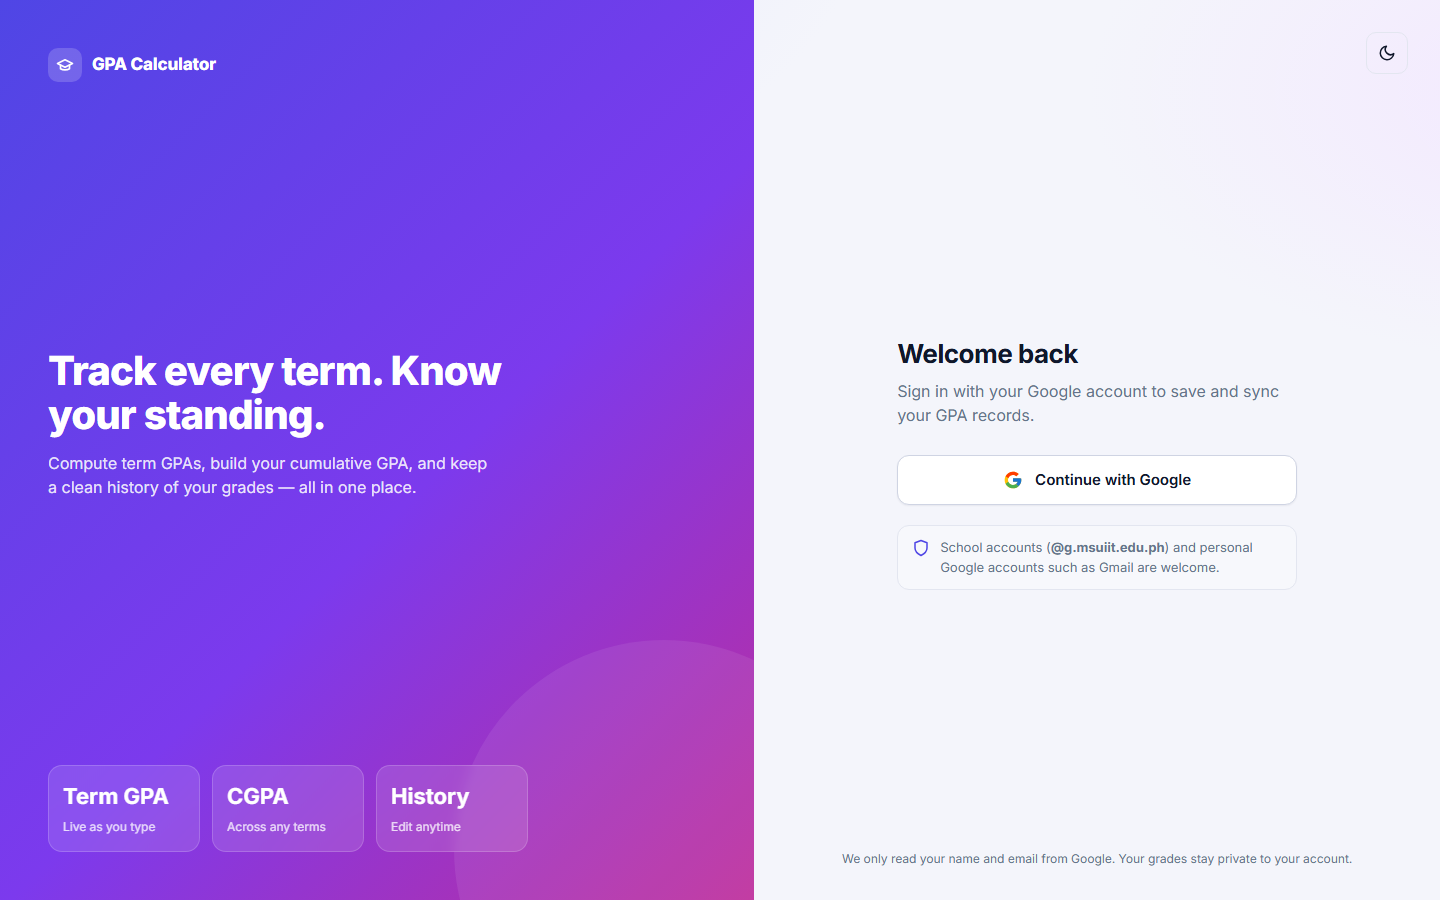
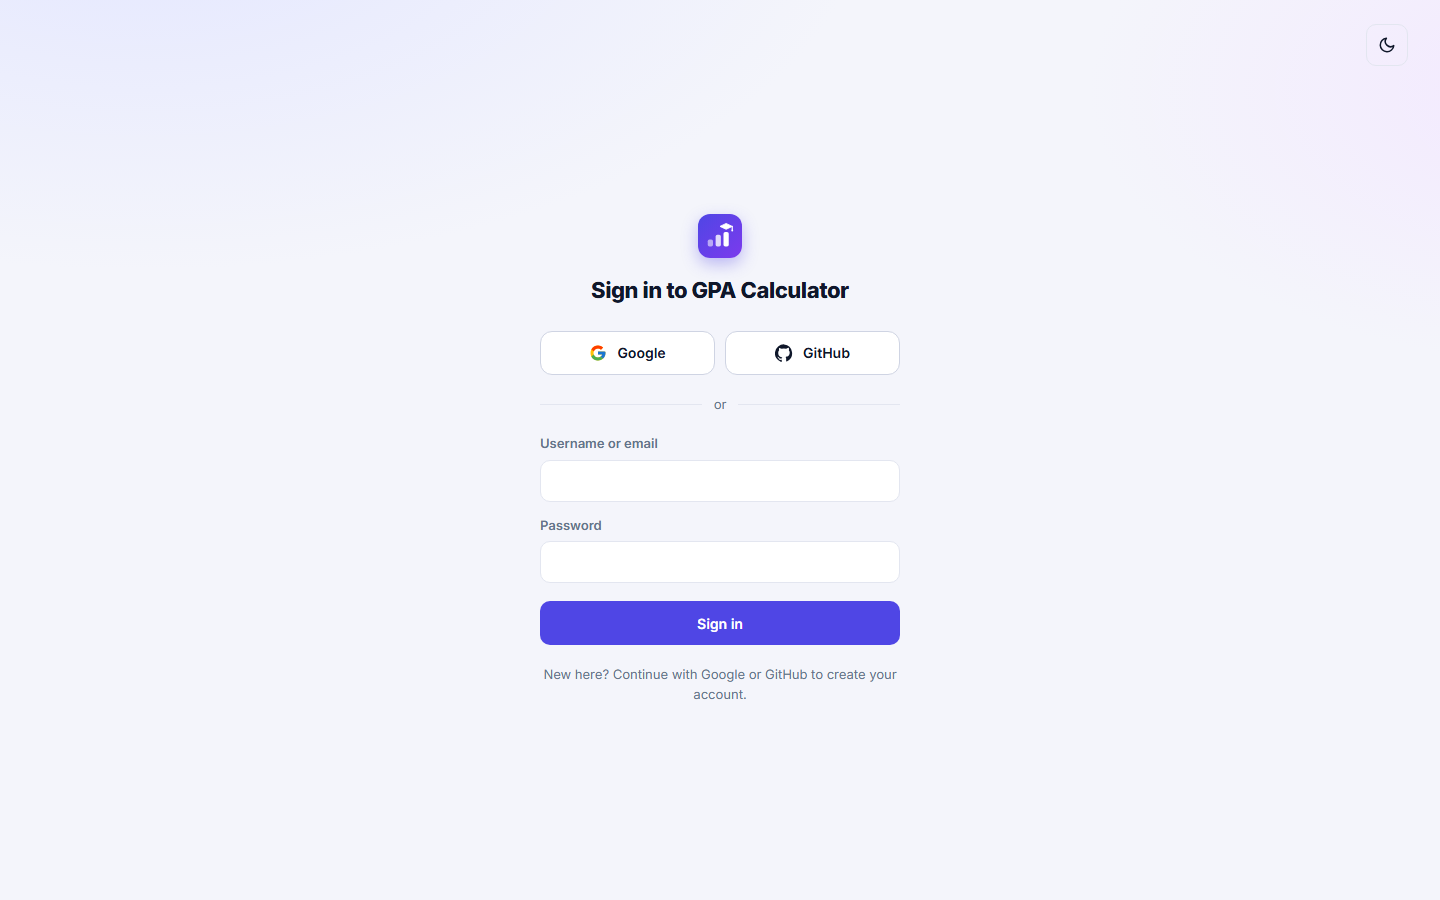
feat: simplify login and setup pages to a single centered card
- Replace "Welcome back" with "Sign in to GPA Calculator" so the page fits new users too
- Remove the gradient hero, stat tiles, policy box and long footer from /login and /setup
- Put the Google and GitHub buttons side by side above the password form
- Add a one-line hint telling new users to start with Google or GitHub
- Show the sign-in policy line only when sign-in is limited to school domains
- Update the README login screenshot to the new design

diff --git a/public/style.css b/public/style.css
@@ -116,60 +116,39 @@ input:focus, select:focus { outline: none; border-color: var(--primary); box-sha
 .btn-block { width: 100%; }
 
 /* ---------- Login ---------- */
-.auth-page { display: grid; grid-template-columns: 1.1fr 1fr; min-height: 100vh; }
-.auth-hero {
-  position: relative; overflow: hidden;
-  display: flex; flex-direction: column; justify-content: space-between;
-  padding: 48px;
-  color: #fff;
-  background: linear-gradient(135deg, #4f46e5 0%, #7c3aed 55%, #db2777 120%);
-}
-.auth-hero::after {
-  content: ''; position: absolute; inset: auto -120px -160px auto;
-  width: 420px; height: 420px; border-radius: 50%;
-  background: rgba(255, 255, 255, .08);
-}
-.auth-hero h1 { font-size: 40px; line-height: 1.1; max-width: 460px; }
-.auth-hero p { font-size: 16px; opacity: .85; max-width: 440px; margin-top: 14px; }
-.hero-stats { display: grid; grid-template-columns: repeat(3, 1fr); gap: 12px; max-width: 480px; position: relative; z-index: 1; }
-.hero-stat { background: rgba(255, 255, 255, .12); border: 1px solid rgba(255, 255, 255, .18); border-radius: var(--radius); padding: 14px; backdrop-filter: blur(6px); }
-.hero-stat strong { display: block; font-size: 22px; }
-.hero-stat span { font-size: 12px; opacity: .8; }
-.auth-panel { display: flex; flex-direction: column; padding: 32px; }
+.auth-page { min-height: 100vh; }
+.auth-panel { display: flex; flex-direction: column; min-height: 100vh; padding: 24px 32px; }
 .auth-panel .topbar { display: flex; justify-content: flex-end; }
-.auth-card { margin: auto; width: 100%; max-width: 400px; }
-.auth-card h2 { font-size: 26px; margin-bottom: 6px; }
-.auth-card .lead { color: var(--text-muted); margin-bottom: 28px; }
+.auth-card { margin: auto; width: 100%; max-width: 360px; padding: 24px 0 48px; }
+.auth-card > .brand-mark { width: 44px; height: 44px; border-radius: 12px; margin: 0 auto 16px; }
+.auth-card > .brand-mark svg { width: 28px; height: 28px; }
+.auth-card h1 { font-size: 22px; text-align: center; margin-bottom: 24px; }
+.auth-card .lead { color: var(--text-muted); font-size: 14px; text-align: center; margin: -16px 0 24px; }
+.oauth-row { display: grid; grid-template-columns: 1fr 1fr; gap: 10px; }
 .google-btn {
-  display: flex; align-items: center; justify-content: center; gap: 12px;
-  width: 100%; height: 50px; border-radius: 12px;
+  display: flex; align-items: center; justify-content: center; gap: 10px;
+  height: 44px; border-radius: 12px;
   border: 1px solid var(--border-strong); background: var(--surface);
-  color: var(--text); font-weight: 600; font-size: 15px; text-decoration: none;
-  box-shadow: var(--shadow-sm); transition: box-shadow .15s, border-color .15s, transform .05s;
+  color: var(--text); font-weight: 600; font-size: 14px; text-decoration: none;
+  transition: border-color .15s, transform .05s;
 }
-.google-btn:hover { box-shadow: var(--shadow); border-color: var(--primary); }
+.google-btn:hover { border-color: var(--primary); }
 .google-btn:active { transform: translateY(1px); }
-.google-btn svg { width: 20px; height: 20px; }
-.github-btn { margin-top: 12px; }
-.auth-note {
-  display: flex; gap: 10px; align-items: flex-start;
-  margin-top: 20px; padding: 12px 14px;
-  background: var(--surface-2); border: 1px solid var(--border); border-radius: 12px;
-  font-size: 13px; color: var(--text-muted);
-}
-.auth-note svg { width: 18px; height: 18px; flex: none; color: var(--primary); margin-top: 1px; }
+.google-btn svg { width: 18px; height: 18px; }
 .alert { margin-top: 16px; padding: 12px 14px; border-radius: 12px; font-size: 14px; background: var(--danger-soft); color: var(--danger); }
 .alert:empty { display: none; }
-.auth-footer { text-align: center; font-size: 12px; color: var(--text-muted); }
+.auth-hint { margin-top: 20px; text-align: center; font-size: 13px; color: var(--text-muted); }
+.auth-hint + .auth-hint { margin-top: 6px; }
+.auth-hint:empty { display: none; }
 .auth-form .field { margin-bottom: 14px; }
-.auth-form .btn { height: 46px; margin-top: 4px; }
+.auth-form .btn { height: 44px; margin-top: 4px; }
 .field-hint { margin-top: 6px; font-size: 12px; color: var(--text-muted); }
 .auth-divider {
   display: flex; align-items: center; gap: 12px;
-  margin: 22px 0 16px; font-size: 13px; color: var(--text-muted);
+  margin: 20px 0; font-size: 13px; color: var(--text-muted);
 }
 .auth-divider::before, .auth-divider::after { content: ""; flex: 1; height: 1px; background: var(--border); }
-.auth-account { margin: -12px 0 24px; font-size: 14px; color: var(--text-muted); overflow-wrap: anywhere; }
+.auth-account { margin: -12px 0 24px; text-align: center; font-size: 14px; color: var(--text-muted); overflow-wrap: anywhere; }
 .auth-account:empty { display: none; }
 
 .brand { display: inline-flex; align-items: center; gap: 10px; font-weight: 800; font-size: 17px; letter-spacing: -0.01em; position: relative; z-index: 1; }
@@ -178,7 +157,6 @@ input:focus, select:focus { outline: none; border-color: var(--primary); box-sha
   background: linear-gradient(135deg, var(--primary), var(--primary-2)); color: #fff;
   box-shadow: 0 6px 16px rgba(79, 70, 229, .35);
 }
-.auth-hero .brand-mark { background: rgba(255, 255, 255, .18); box-shadow: none; }
 .brand-mark svg { width: 22px; height: 22px; }
 
 /* ---------- Not found ---------- */
@@ -339,9 +317,6 @@ input:focus, select:focus { outline: none; border-color: var(--primary); box-sha
 /* ---------- Responsive ---------- */
 @media (max-width: 960px) {
   .layout-split { grid-template-columns: 1fr; }
-  .auth-page { grid-template-columns: 1fr; }
-  .auth-hero { padding: 32px 24px; gap: 32px; }
-  .auth-hero h1 { font-size: 30px; }
 }
 @media (max-width: 640px) {
   .app-header-inner, .app-main { padding-left: 16px; padding-right: 16px; }
@@ -354,8 +329,7 @@ input:focus, select:focus { outline: none; border-color: var(--primary); box-sha
   .inline-form { grid-template-columns: 1fr 1fr; }
   .inline-form > :first-child { grid-column: 1 / -1; }
   .inline-form > .btn { grid-column: 1 / -1; }
-  .hero-stats { grid-template-columns: 1fr 1fr 1fr; }
-  .auth-panel { padding: 20px 16px; }
+  .auth-panel { padding: 16px; }
   .notfound-page { padding: 20px 16px; }
   .notfound-code { font-size: 72px; }
   .course-table thead { display: none; }

diff --git a/public/login.html b/public/login.html
@@ -18,34 +18,29 @@
 </head>
 <body>
   <main class="auth-page">
-    <section class="auth-hero">
-      <div class="brand">
-        <span class="brand-mark">
-          <svg viewBox="11 8 48 48" fill="currentColor" aria-hidden="true"><rect x="14" y="38" width="9" height="12" rx="3" opacity=".55"/><rect x="27.5" y="30" width="9" height="20" rx="3" opacity=".8"/><rect x="41" y="25" width="9" height="25" rx="3"/><path d="M45.5 10.5 56 15.5 45.5 20.5 35 15.5z" stroke="currentColor" stroke-width="1.5" stroke-linejoin="round"/><path d="M56 15.5v6" stroke="currentColor" stroke-width="2" stroke-linecap="round"/><circle cx="56" cy="22.5" r="1.6"/></svg>
-        </span>
-        GPA Calculator
-      </div>
-
-      <div style="position: relative; z-index: 1;">
-        <h1>Track every term. Know your standing.</h1>
-        <p>Compute term GPAs, build your cumulative GPA, and keep a clean history of your grades — all in one place.</p>
-      </div>
-
-      <div class="hero-stats">
-        <div class="hero-stat"><strong>Term GPA</strong><span>Live as you type</span></div>
-        <div class="hero-stat"><strong>CGPA</strong><span>Across any terms</span></div>
-        <div class="hero-stat"><strong>History</strong><span>Edit anytime</span></div>
-      </div>
-    </section>
-
     <section class="auth-panel">
       <div class="topbar">
         <button id="themeToggleBtn" class="btn btn-ghost btn-icon" type="button" aria-label="Toggle theme"></button>
       </div>
 
       <div class="auth-card">
-        <h2>Welcome back</h2>
-        <p class="lead">Sign in with your username and password, or with Google or GitHub.</p>
+        <span class="brand-mark">
+          <svg viewBox="11 8 48 48" fill="currentColor" aria-hidden="true"><rect x="14" y="38" width="9" height="12" rx="3" opacity=".55"/><rect x="27.5" y="30" width="9" height="20" rx="3" opacity=".8"/><rect x="41" y="25" width="9" height="25" rx="3"/><path d="M45.5 10.5 56 15.5 45.5 20.5 35 15.5z" stroke="currentColor" stroke-width="1.5" stroke-linejoin="round"/><path d="M56 15.5v6" stroke="currentColor" stroke-width="2" stroke-linecap="round"/><circle cx="56" cy="22.5" r="1.6"/></svg>
+        </span>
+        <h1>Sign in to GPA Calculator</h1>
+
+        <div class="oauth-row">
+          <a class="google-btn" href="/api/auth/google">
+            <svg viewBox="0 0 48 48" aria-hidden="true"><path fill="#FFC107" d="M43.6 20.5H42V20H24v8h11.3C33.7 32.7 29.2 36 24 36c-6.6 0-12-5.4-12-12s5.4-12 12-12c3.1 0 5.9 1.2 8 3.1l5.7-5.7C34 6.1 29.3 4 24 4 12.9 4 4 12.9 4 24s8.9 20 20 20 20-8.9 20-20c0-1.3-.1-2.6-.4-3.5z"/><path fill="#FF3D00" d="m6.3 14.7 6.6 4.8C14.7 15.1 19 12 24 12c3.1 0 5.9 1.2 8 3.1l5.7-5.7C34 6.1 29.3 4 24 4 16.3 4 9.7 8.3 6.3 14.7z"/><path fill="#4CAF50" d="M24 44c5.2 0 9.9-2 13.4-5.2l-6.2-5.2C29.2 35.1 26.7 36 24 36c-5.2 0-9.6-3.3-11.3-7.9l-6.5 5C9.5 39.6 16.2 44 24 44z"/><path fill="#1976D2" d="M43.6 20.5H42V20H24v8h11.3c-.8 2.2-2.2 4.2-4.1 5.6l6.2 5.2C37 39.2 44 34 44 24c0-1.3-.1-2.6-.4-3.5z"/></svg>
+            Google
+          </a>
+          <a class="google-btn" href="/api/auth/github">
+            <svg viewBox="0 0 24 24" fill="currentColor" aria-hidden="true"><path d="M12 .5a12 12 0 0 0-3.8 23.4c.6.1.8-.3.8-.6v-2.2c-3.3.7-4-1.6-4-1.6-.6-1.4-1.4-1.8-1.4-1.8-1-.7.1-.7.1-.7 1.2.1 1.8 1.2 1.8 1.2 1 1.8 2.8 1.3 3.5 1 .1-.8.4-1.3.8-1.6-2.7-.3-5.5-1.3-5.5-6 0-1.3.5-2.4 1.2-3.2-.1-.3-.5-1.5.1-3.2 0 0 1-.3 3.3 1.2a11.5 11.5 0 0 1 6 0C17.3 4.7 18.3 5 18.3 5c.7 1.7.3 2.9.1 3.2.8.8 1.2 1.9 1.2 3.2 0 4.6-2.8 5.6-5.5 5.9.4.4.8 1.1.8 2.2v3.3c0 .3.2.7.8.6A12 12 0 0 0 12 .5z"/></svg>
+            GitHub
+          </a>
+        </div>
+
+        <div class="auth-divider">or</div>
 
         <form id="loginForm" class="auth-form" novalidate>
           <div class="field">
@@ -61,25 +56,9 @@
 
         <div id="msg" class="alert" role="alert"></div>
 
-        <div class="auth-divider">or continue with</div>
-
-        <a class="google-btn" href="/api/auth/google">
-          <svg viewBox="0 0 48 48" aria-hidden="true"><path fill="#FFC107" d="M43.6 20.5H42V20H24v8h11.3C33.7 32.7 29.2 36 24 36c-6.6 0-12-5.4-12-12s5.4-12 12-12c3.1 0 5.9 1.2 8 3.1l5.7-5.7C34 6.1 29.3 4 24 4 12.9 4 4 12.9 4 24s8.9 20 20 20 20-8.9 20-20c0-1.3-.1-2.6-.4-3.5z"/><path fill="#FF3D00" d="m6.3 14.7 6.6 4.8C14.7 15.1 19 12 24 12c3.1 0 5.9 1.2 8 3.1l5.7-5.7C34 6.1 29.3 4 24 4 16.3 4 9.7 8.3 6.3 14.7z"/><path fill="#4CAF50" d="M24 44c5.2 0 9.9-2 13.4-5.2l-6.2-5.2C29.2 35.1 26.7 36 24 36c-5.2 0-9.6-3.3-11.3-7.9l-6.5 5C9.5 39.6 16.2 44 24 44z"/><path fill="#1976D2" d="M43.6 20.5H42V20H24v8h11.3c-.8 2.2-2.2 4.2-4.1 5.6l6.2 5.2C37 39.2 44 34 44 24c0-1.3-.1-2.6-.4-3.5z"/></svg>
-          Continue with Google
-        </a>
-
-        <a class="google-btn github-btn" href="/api/auth/github">
-          <svg viewBox="0 0 24 24" fill="currentColor" aria-hidden="true"><path d="M12 .5a12 12 0 0 0-3.8 23.4c.6.1.8-.3.8-.6v-2.2c-3.3.7-4-1.6-4-1.6-.6-1.4-1.4-1.8-1.4-1.8-1-.7.1-.7.1-.7 1.2.1 1.8 1.2 1.8 1.2 1 1.8 2.8 1.3 3.5 1 .1-.8.4-1.3.8-1.6-2.7-.3-5.5-1.3-5.5-6 0-1.3.5-2.4 1.2-3.2-.1-.3-.5-1.5.1-3.2 0 0 1-.3 3.3 1.2a11.5 11.5 0 0 1 6 0C17.3 4.7 18.3 5 18.3 5c.7 1.7.3 2.9.1 3.2.8.8 1.2 1.9 1.2 3.2 0 4.6-2.8 5.6-5.5 5.9.4.4.8 1.1.8 2.2v3.3c0 .3.2.7.8.6A12 12 0 0 0 12 .5z"/></svg>
-          Continue with GitHub
-        </a>
-
-        <div class="auth-note">
-          <svg viewBox="0 0 24 24" fill="none" stroke="currentColor" stroke-width="2" stroke-linecap="round" stroke-linejoin="round"><path d="M12 22s8-4 8-10V5l-8-3-8 3v7c0 6 8 10 8 10z"/></svg>
-          <span id="policy">School accounts (<strong id="domains">@g.msuiit.edu.ph</strong>) and personal accounts such as Gmail or GitHub are welcome.</span>
-        </div>
+        <p class="auth-hint">New here? Continue with Google or GitHub to create your account.</p>
+        <p id="policy" class="auth-hint"></p>
       </div>
-
-      <p class="auth-footer">New here? Sign in with Google or GitHub first, then choose a username and password. We only read your name and email from them, and your grades stay private to your account.</p>
     </section>
   </main>
 

diff --git a/public/setup.html b/public/setup.html
@@ -15,27 +15,16 @@
 </head>
 <body>
   <main class="auth-page">
-    <section class="auth-hero">
-      <div class="brand">
-        <span class="brand-mark">
-          <svg viewBox="11 8 48 48" fill="currentColor" aria-hidden="true"><rect x="14" y="38" width="9" height="12" rx="3" opacity=".55"/><rect x="27.5" y="30" width="9" height="20" rx="3" opacity=".8"/><rect x="41" y="25" width="9" height="25" rx="3"/><path d="M45.5 10.5 56 15.5 45.5 20.5 35 15.5z" stroke="currentColor" stroke-width="1.5" stroke-linejoin="round"/><path d="M56 15.5v6" stroke="currentColor" stroke-width="2" stroke-linecap="round"/><circle cx="56" cy="22.5" r="1.6"/></svg>
-        </span>
-        GPA Calculator
-      </div>
-
-      <div style="position: relative; z-index: 1;">
-        <h1>One more step.</h1>
-        <p>Choose a username and password. You can then sign in with them, or keep using Google or GitHub.</p>
-      </div>
-    </section>
-
     <section class="auth-panel">
       <div class="topbar">
         <button id="themeToggleBtn" class="btn btn-ghost btn-icon" type="button" aria-label="Toggle theme"></button>
       </div>
 
       <div class="auth-card">
-        <h2>Finish setting up</h2>
+        <span class="brand-mark">
+          <svg viewBox="11 8 48 48" fill="currentColor" aria-hidden="true"><rect x="14" y="38" width="9" height="12" rx="3" opacity=".55"/><rect x="27.5" y="30" width="9" height="20" rx="3" opacity=".8"/><rect x="41" y="25" width="9" height="25" rx="3"/><path d="M45.5 10.5 56 15.5 45.5 20.5 35 15.5z" stroke="currentColor" stroke-width="1.5" stroke-linejoin="round"/><path d="M56 15.5v6" stroke="currentColor" stroke-width="2" stroke-linecap="round"/><circle cx="56" cy="22.5" r="1.6"/></svg>
+        </span>
+        <h1>Finish setting up</h1>
         <p class="lead">Pick a username and password to continue to the app.</p>
         <p id="account" class="auth-account"></p>
 
@@ -61,9 +50,8 @@
 
         <div class="auth-divider">wrong account?</div>
         <button id="cancelBtn" class="btn btn-ghost btn-block" type="button">Sign in with a different account</button>
+        <p class="auth-hint">Your password is stored only as a secure hash.</p>
       </div>
-
-      <p class="auth-footer">Your password is stored only as a secure hash.</p>
     </section>
   </main>
 

diff --git a/public/login.js b/public/login.js
@@ -13,17 +13,13 @@ function showError() {
   }
 }
 
-function renderPolicy(allowedDomains, allowExternal) {
+// Only mention the policy when sign-in is restricted to school accounts
+function renderPolicy(allowExternal) {
   policy.textContent = '';
+  if (allowExternal) return;
   const strong = document.createElement('strong');
   strong.textContent = domainText;
-  if (allowExternal && allowedDomains.length) {
-    policy.append('School accounts (', strong, ') and personal accounts such as Gmail or GitHub are welcome.');
-  } else if (allowExternal) {
-    policy.append('Any Google or GitHub account can sign in, including Gmail and school accounts.');
-  } else {
-    policy.append('Only ', strong, ' school accounts can sign in.');
-  }
+  policy.append('Only ', strong, ' school accounts can sign in.');
 }
 
 const loginForm = document.getElementById('loginForm');
@@ -67,7 +63,7 @@ fetch('/api/auth/config')
   .then(res => res.json())
   .then(({ allowedDomains = [], allowExternal = true }) => {
     if (allowedDomains.length) domainText = allowedDomains.map(d => '@' + d).join(', ');
-    renderPolicy(allowedDomains, allowExternal);
+    renderPolicy(allowExternal);
   })
   .catch(() => {})
   .finally(showError);
